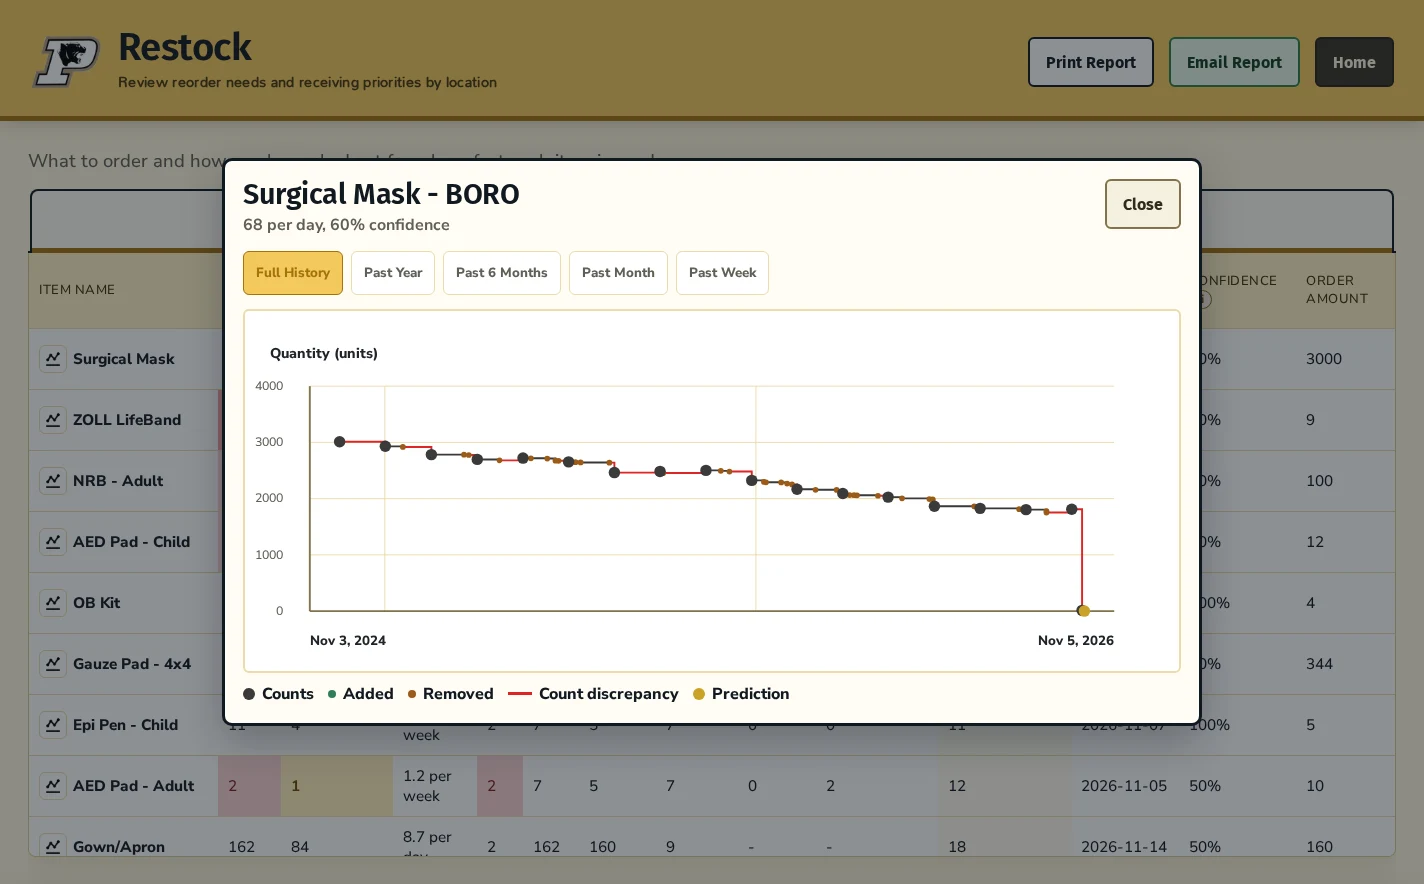
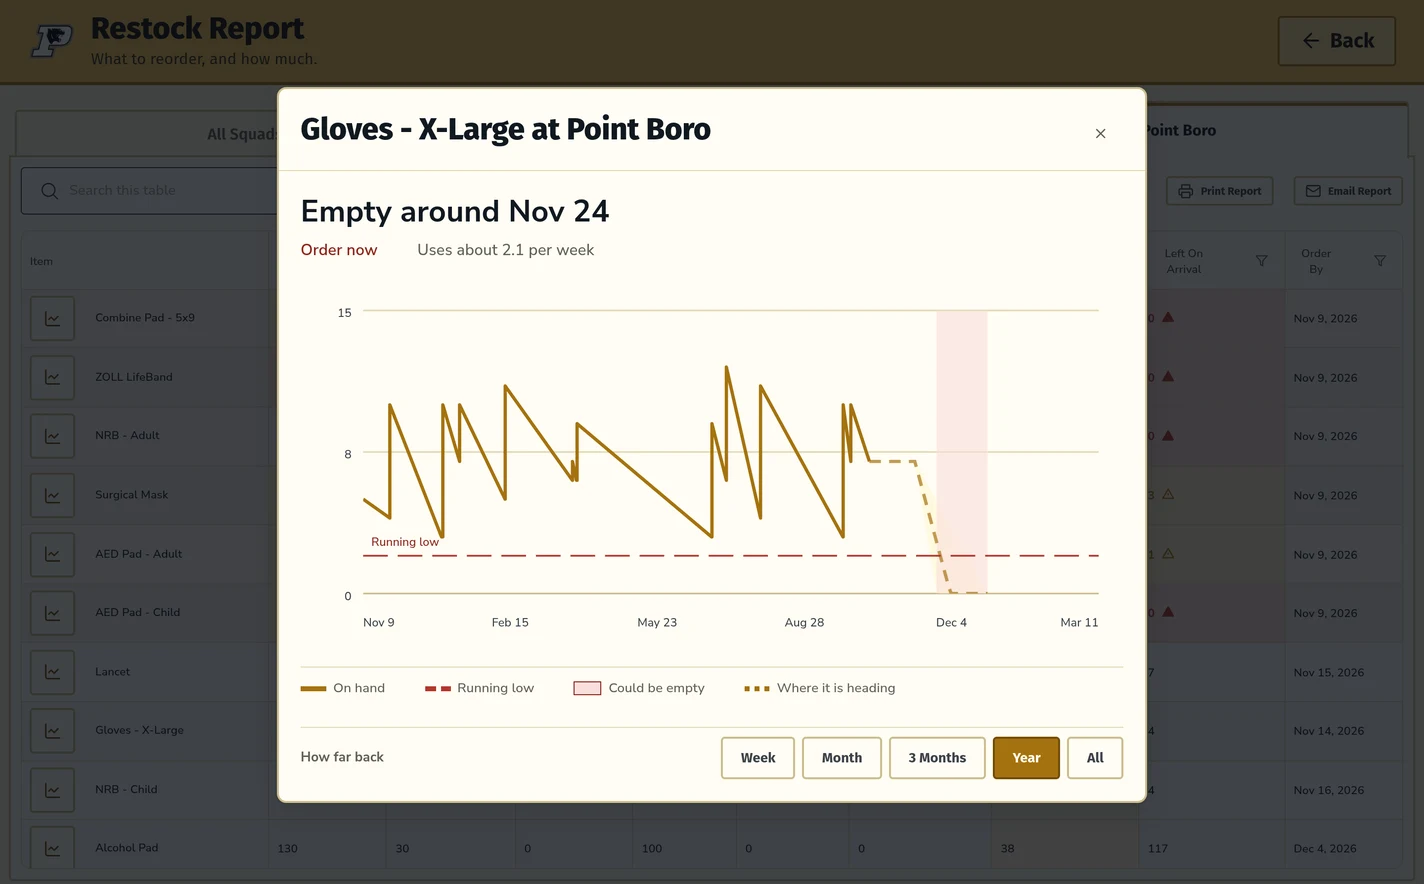
docs(iiq): swap in the current usage-chart screenshot

diff --git a/iiq/index.html b/iiq/index.html
@@ -147,7 +147,7 @@
           <p>Open any item to see its recorded counts, additions, and removals plotted over time, with the usage rate it works out and how confident that estimate is. Treat the projection as planning support rather than a guaranteed date.</p>
         </div>
         <figure class="shot aside zoomable">
-          <img src="../images/iiq-predictions.webp" alt="An Inventory IQ item history chart for surgical masks at the BORO location, plotting counts, additions, removals, count discrepancies and a projected point from November 2024 to November 2026, with a usage rate of 68 per day at 60 percent confidence." loading="lazy" width="1424" height="884">
+          <img src="../images/iiq-predictions.webp" alt="An Inventory IQ usage chart for extra-large gloves at Point Boro, headlined Empty around Nov 24 with an order-now flag and a rate of about 2.1 per week. The on-hand line saws down and back up through a year of takeouts and restocks, a dashed running-low threshold runs across the bottom, and a dotted projection falls into a shaded could-be-empty window." loading="lazy" width="1424" height="884">
           <figcaption>Recorded activity for one item, with its estimated usage rate.</figcaption>
         </figure>
       </div>
